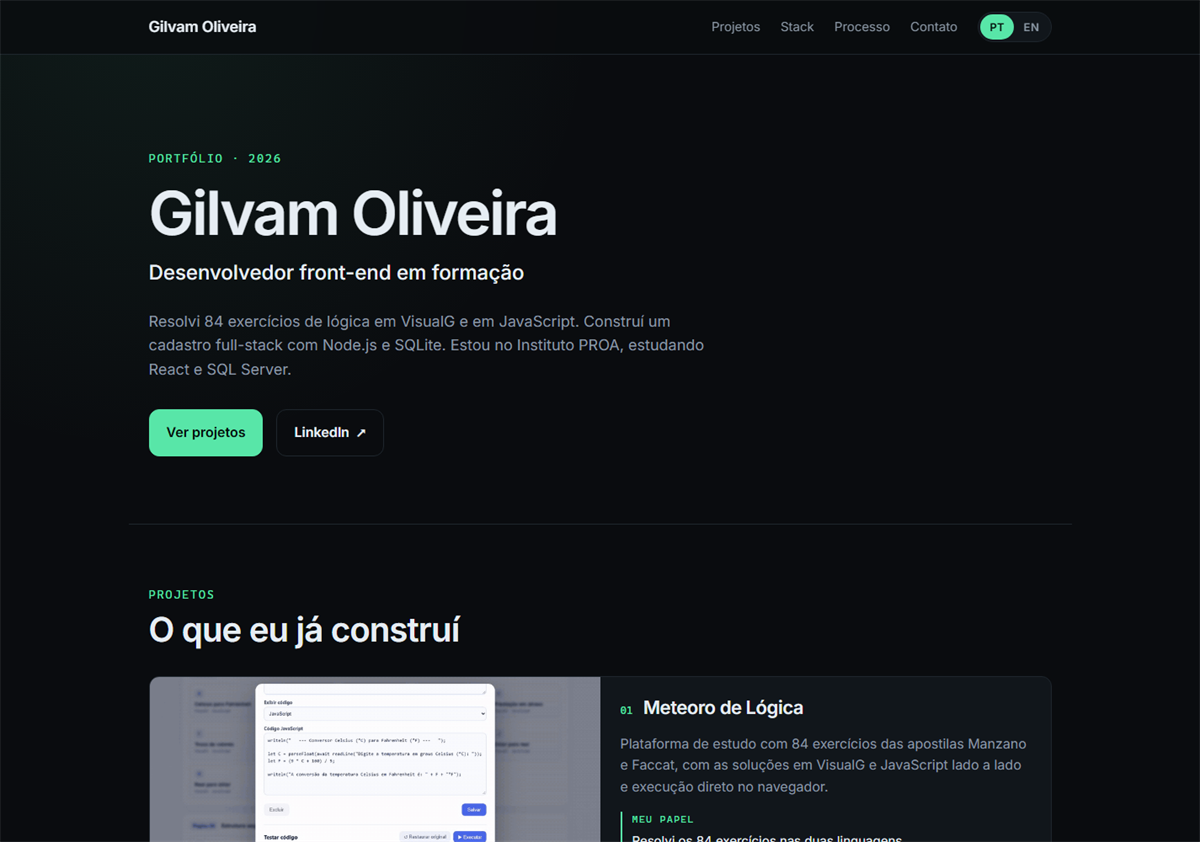
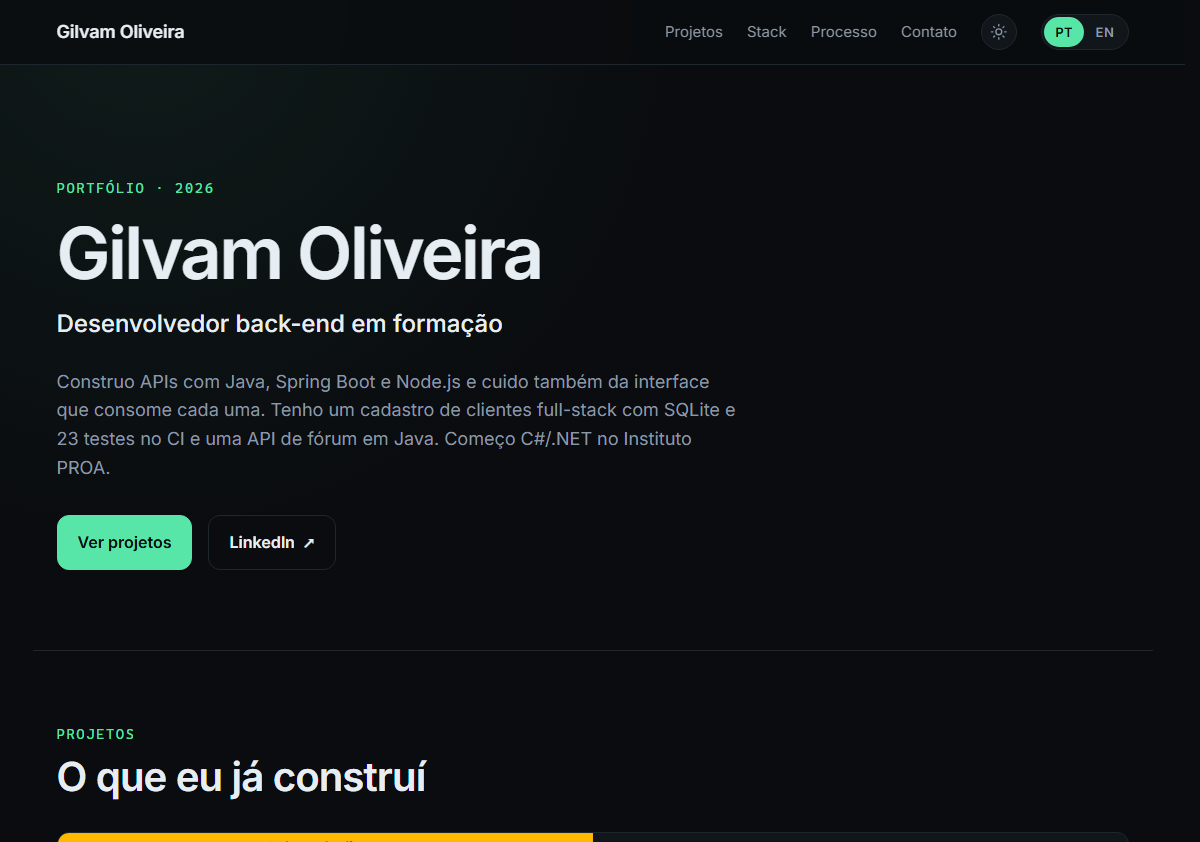
feat: reposiciona o portfolio para back-end e destaca projetos de API

diff --git a/src/i18n/pt.js b/src/i18n/pt.js
@@ -1,9 +1,9 @@
 export const pt = {
   meta: {
     lang: 'pt-BR',
-    title: 'Gilvam Oliveira — Desenvolvedor Front-end',
+    title: 'Gilvam Oliveira — Desenvolvedor Back-End em formação',
     description:
-      'Portfólio de Gilvam Oliveira, desenvolvedor front-end em formação. 84 exercícios de lógica em VisualG e JavaScript, cadastro full-stack com Node.js e SQLite e 70 exercícios de HTML e CSS.',
+      'Portfólio de Gilvam Oliveira, desenvolvedor back-end em formação. Cadastro de clientes com API REST em Node.js e SQLite, API de fórum em Java e Spring Boot, catálogo de livros com JPA e PostgreSQL e 84 exercícios de lógica.',
   },
   a11y: {
     skip: 'Pular para o conteúdo',
@@ -21,8 +21,8 @@ export const pt = {
   hero: {
     label: 'Portfólio · 2026',
     name: 'Gilvam Oliveira',
-    role: 'Desenvolvedor front-end em formação',
-    lead: 'Resolvi 84 exercícios de lógica em VisualG e em JavaScript. Construí um cadastro full-stack com Node.js e SQLite. Estou no Instituto PROA, estudando React e SQL Server.',
+    role: 'Desenvolvedor back-end em formação',
+    lead: 'Construo APIs com Java, Spring Boot e Node.js e cuido também da interface que consome cada uma. Tenho um cadastro de clientes full-stack com SQLite e 23 testes no CI e uma API de fórum em Java. Começo C#/.NET no Instituto PROA.',
     ctaProjects: 'Ver projetos',
     ctaLinkedin: 'LinkedIn',
   },
@@ -36,16 +36,16 @@ export const pt = {
       meteoro: {
         name: 'Meteoro de Lógica',
         summary:
-          'Plataforma de estudo com 84 exercícios das apostilas Manzano e Faccat, com as soluções em VisualG e JavaScript lado a lado e execução direto no navegador.',
+          'Plataforma de estudo com 84 exercícios das apostilas Manzano e Faccat, soluções em VisualG e JavaScript lado a lado e um interpretador de VisualG escrito em JavaScript que executa os programas no navegador.',
         role: 'Resolvi os 84 exercícios nas duas linguagens.',
         alt: 'Catálogo do Meteoro de Lógica com exercícios da apostila Manzano organizados por página e linguagem',
       },
       crud: {
-        name: 'CRUD de Clientes',
+        name: 'Cadastro de Clientes — API e interface',
         summary:
-          'Cadastro de clientes com validação de campos, busca, filtros, paginação e exportação, em versão estática e com API REST em Node.js e SQLite.',
-        role: 'Construí a base seguindo o projeto do curso; sigo evoluindo e estudando o back-end.',
-        alt: 'Tela do CRUD de Clientes em modo API, com indicadores, filtros e a tabela de clientes cadastrados',
+          'API REST em Node.js com SQLite: paginação, busca, filtros e ordenação no servidor, autenticação opcional por token, rate limiting e CORS restrito. A interface funciona com a API e também sozinha, com fallback para localStorage.',
+        role: 'Construí a base a partir do projeto do curso e evoluí a API e os 23 testes automatizados.',
+        alt: 'Tela do Cadastro de Clientes em modo API, com indicadores, filtros e a tabela de clientes cadastrados',
       },
       'html-css': {
         name: 'Exercícios de HTML e CSS',
@@ -55,18 +55,36 @@ export const pt = {
         alt: 'Página inicial da trilha de exercícios de HTML e CSS com os níveis e as atividades',
       },
     },
+    othersLabel: 'Também publiquei',
+    others: [
+      {
+        name: 'ForumHub',
+        description: 'API de fórum em Java e Spring Boot, com JPA, MySQL, Flyway e emissão de JWT.',
+        href: 'https://github.com/GilvamOliveira/forumhub',
+      },
+      {
+        name: 'LiterAlura',
+        description: 'Catálogo de livros com Java, Spring Boot, JPA e PostgreSQL, consumindo a API Gutendex.',
+        href: 'https://github.com/GilvamOliveira/LiterAlura',
+      },
+      {
+        name: 'Portfólio de design',
+        description: 'Oito protótipos de interface no Figma, de login a landing pages.',
+        href: 'https://github.com/GilvamOliveira/design-portfolio',
+      },
+    ],
   },
   stack: {
     label: 'Stack',
     title: 'O que eu uso hoje',
     groups: [
-      { title: 'Linguagens', items: ['HTML5', 'CSS3', 'JavaScript (ES6+)'] },
-      { title: 'Framework', items: ['React'] },
-      { title: 'Dados', items: ['SQL', 'SQL Server', 'SQLite'] },
-      { title: 'Ferramentas', items: ['Git', 'GitHub', 'Figma', 'Vite'] },
+      { title: 'Back-end', items: ['Java 17', 'Spring Boot', 'JPA', 'Node.js', 'APIs REST'] },
+      { title: 'Dados', items: ['SQL', 'MySQL', 'PostgreSQL', 'SQL Server', 'SQLite'] },
+      { title: 'Front-end', items: ['HTML5', 'CSS3', 'JavaScript', 'React', 'Vite'] },
+      { title: 'Qualidade', items: ['JUnit', 'node:test', 'GitHub Actions', 'Docker', 'Git'] },
     ],
-    learningLabel: 'Estudando agora',
-    learning: ['TypeScript', 'C#'],
+    learningLabel: 'Começando agora',
+    learning: ['C#/.NET'],
   },
   process: {
     label: 'Processo',
@@ -75,12 +93,12 @@ export const pt = {
       {
         number: '01',
         title: 'Desenho',
-        text: 'Começo no Figma: wireframe, paleta e tipografia antes da primeira linha de código.',
+        text: 'Antes de codificar, desenho o fluxo e a tela no Figma: wireframe, paleta e tipografia.',
       },
       {
         number: '02',
         title: 'Codifico',
-        text: 'HTML semântico, CSS responsivo e JavaScript puro. Framework só quando resolve.',
+        text: 'Começo pelo modelo de dados e pelo contrato da API. A interface vem depois, em JavaScript ou React.',
       },
       {
         number: '03',
@@ -92,7 +110,7 @@ export const pt = {
   contact: {
     label: 'Contato',
     title: 'Vamos conversar',
-    lead: 'Estou buscando estágio ou posição júnior em front-end.',
+    lead: 'Estou buscando estágio ou posição júnior em back-end.',
     location: 'São Paulo — remoto ou híbrido',
     links: [
       {

diff --git a/src/i18n/en.js b/src/i18n/en.js
@@ -1,9 +1,9 @@
 export const en = {
   meta: {
     lang: 'en-US',
-    title: 'Gilvam Oliveira — Front-end Developer',
+    title: 'Gilvam Oliveira — Back-End Developer in training',
     description:
-      'Portfolio of Gilvam Oliveira, front-end developer in training. 84 programming logic exercises in VisualG and JavaScript, a full-stack client registry with Node.js and SQLite, and 70 HTML and CSS exercises.',
+      'Portfolio of Gilvam Oliveira, back-end developer in training. Client registry with a REST API in Node.js and SQLite, a forum API in Java and Spring Boot, a book catalogue with JPA and PostgreSQL, and 84 programming-logic exercises.',
   },
   a11y: {
     skip: 'Skip to content',
@@ -21,8 +21,8 @@ export const en = {
   hero: {
     label: 'Portfolio · 2026',
     name: 'Gilvam Oliveira',
-    role: 'Front-end developer in training',
-    lead: 'I solved 84 programming logic exercises in VisualG and JavaScript. I built a full-stack client registry with Node.js and SQLite. I study at Instituto PROA, currently learning React and SQL Server.',
+    role: 'Back-end developer in training',
+    lead: 'I build APIs with Java, Spring Boot and Node.js, and I also take care of the interface that consumes them. I have a full-stack client registry with SQLite and 23 tests in CI, and a forum API in Java. I am starting C#/.NET at Instituto PROA.',
     ctaProjects: 'View projects',
     ctaLinkedin: 'LinkedIn',
   },
@@ -36,15 +36,15 @@ export const en = {
       meteoro: {
         name: 'Meteoro de Lógica',
         summary:
-          'Study platform with 84 exercises from the Manzano and Faccat workbooks, with VisualG and JavaScript solutions side by side and in-browser execution.',
+          'Study platform with 84 exercises from the Manzano and Faccat workbooks, VisualG and JavaScript solutions side by side, and a VisualG interpreter written in JavaScript that runs the programs in the browser.',
         role: 'I solved all 84 exercises in both languages.',
         alt: 'Meteoro de Lógica catalog with Manzano workbook exercises organized by page and language',
       },
       crud: {
-        name: 'Client Registry',
+        name: 'Client Registry — API and interface',
         summary:
-          'Client registry with field validation, search, filters, pagination and export, available as a static version and with a REST API in Node.js and SQLite.',
-        role: 'I built the base following the course project and keep improving it while studying the back-end.',
+          'REST API in Node.js with SQLite: server-side pagination, search, filters and sorting, optional token authentication, rate limiting and restricted CORS. The interface works with the API and also on its own, falling back to localStorage.',
+        role: 'I built the base from the course project and evolved the API and its 23 automated tests.',
         alt: 'Client registry screen in API mode with summary metrics, filters and the client table',
       },
       'html-css': {
@@ -55,18 +55,36 @@ export const en = {
         alt: 'Landing page of the HTML and CSS exercise track with levels and activities',
       },
     },
+    othersLabel: 'Also published',
+    others: [
+      {
+        name: 'ForumHub',
+        description: 'Forum API in Java and Spring Boot, with JPA, MySQL, Flyway and JWT issuance.',
+        href: 'https://github.com/GilvamOliveira/forumhub',
+      },
+      {
+        name: 'LiterAlura',
+        description: 'Book catalogue with Java, Spring Boot, JPA and PostgreSQL, querying the Gutendex API.',
+        href: 'https://github.com/GilvamOliveira/LiterAlura',
+      },
+      {
+        name: 'Design portfolio',
+        description: 'Eight interface prototypes in Figma, from login screens to landing pages.',
+        href: 'https://github.com/GilvamOliveira/design-portfolio',
+      },
+    ],
   },
   stack: {
     label: 'Stack',
     title: 'What I use today',
     groups: [
-      { title: 'Languages', items: ['HTML5', 'CSS3', 'JavaScript (ES6+)'] },
-      { title: 'Framework', items: ['React'] },
-      { title: 'Data', items: ['SQL', 'SQL Server', 'SQLite'] },
-      { title: 'Tools', items: ['Git', 'GitHub', 'Figma', 'Vite'] },
+      { title: 'Back end', items: ['Java 17', 'Spring Boot', 'JPA', 'Node.js', 'REST APIs'] },
+      { title: 'Data', items: ['SQL', 'MySQL', 'PostgreSQL', 'SQL Server', 'SQLite'] },
+      { title: 'Front end', items: ['HTML5', 'CSS3', 'JavaScript', 'React', 'Vite'] },
+      { title: 'Quality', items: ['JUnit', 'node:test', 'GitHub Actions', 'Docker', 'Git'] },
     ],
-    learningLabel: 'Currently learning',
-    learning: ['TypeScript', 'C#'],
+    learningLabel: 'Starting now',
+    learning: ['C#/.NET'],
   },
   process: {
     label: 'Process',
@@ -75,12 +93,12 @@ export const en = {
       {
         number: '01',
         title: 'Design',
-        text: 'I start in Figma: wireframe, palette and typography before the first line of code.',
+        text: 'Before coding, I sketch the flow and the screen in Figma: wireframe, palette and typography.',
       },
       {
         number: '02',
         title: 'Build',
-        text: 'Semantic HTML, responsive CSS and plain JavaScript. A framework only when it solves something.',
+        text: 'I start with the data model and the API contract. The interface comes next, in JavaScript or React.',
       },
       {
         number: '03',
@@ -92,7 +110,7 @@ export const en = {
   contact: {
     label: 'Contact',
     title: "Let's talk",
-    lead: "I'm looking for an internship or a junior front-end position.",
+    lead: "I'm looking for an internship or a junior back-end position.",
     location: 'São Paulo — remote or hybrid',
     links: [
       {

diff --git a/index.html b/index.html
@@ -3,10 +3,10 @@
   <head>
     <meta charset="UTF-8" />
     <meta name="viewport" content="width=device-width, initial-scale=1.0" />
-    <title>Gilvam Oliveira — Desenvolvedor Front-end</title>
+    <title>Gilvam Oliveira — Desenvolvedor Back-End em formação</title>
     <meta
       name="description"
-      content="Portfólio de Gilvam Oliveira, desenvolvedor front-end em formação. 84 exercícios de lógica em VisualG e JavaScript, cadastro full-stack com Node.js e SQLite e 70 exercícios de HTML e CSS."
+      content="Portfólio de Gilvam Oliveira, desenvolvedor back-end em formação. Cadastro de clientes com API REST em Node.js e SQLite, API de fórum em Java e Spring Boot, catálogo de livros com JPA e PostgreSQL e 84 exercícios de lógica."
     />
     <meta name="theme-color" content="#0A0C0F" />
     <script>
@@ -28,10 +28,10 @@
     <link rel="canonical" href="https://gilvam.is-a.dev/" />
     <meta property="og:type" content="website" />
     <meta property="og:url" content="https://gilvam.is-a.dev/" />
-    <meta property="og:title" content="Gilvam Oliveira — Desenvolvedor Front-end" />
+    <meta property="og:title" content="Gilvam Oliveira — Desenvolvedor Back-End em formação" />
     <meta
       property="og:description"
-      content="84 exercícios de lógica em VisualG e JavaScript, cadastro full-stack com Node.js e SQLite e 70 exercícios de HTML e CSS."
+      content="Cadastro de clientes com API REST em Node.js e SQLite, API de fórum em Java e Spring Boot, catálogo de livros com JPA e PostgreSQL e 84 exercícios de lógica."
     />
     <meta property="og:image" content="https://gilvam.is-a.dev/og.png" />
     <meta property="og:locale" content="pt_BR" />

diff --git a/src/data/projects.js b/src/data/projects.js
@@ -1,22 +1,22 @@
 export const projects = [
   {
-    id: 'meteoro',
+    id: 'crud',
     number: '01',
-    stack: ['JavaScript', 'VisualG', 'HTML', 'CSS'],
-    demo: 'https://gilvamoliveira.github.io/meteoro-de-logica/',
-    repo: 'https://github.com/GilvamOliveira/meteoro-de-logica',
-    image: '/projects/meteoro.png',
+    stack: ['Node.js', 'SQLite', 'REST', 'JavaScript'],
+    demo: 'https://gilvamoliveira.github.io/client-registry/',
+    repo: 'https://github.com/GilvamOliveira/client-registry',
+    image: '/projects/crud.png',
     width: 1200,
     height: 900,
     featured: true,
   },
   {
-    id: 'crud',
+    id: 'meteoro',
     number: '02',
-    stack: ['JavaScript', 'Node.js', 'SQLite', 'REST'],
-    demo: 'https://gilvamoliveira.github.io/client-registry/',
-    repo: 'https://github.com/GilvamOliveira/client-registry',
-    image: '/projects/crud.png',
+    stack: ['JavaScript', 'VisualG', 'HTML', 'CSS'],
+    demo: 'https://gilvamoliveira.github.io/meteoro-de-logica/',
+    repo: 'https://github.com/GilvamOliveira/meteoro-de-logica',
+    image: '/projects/meteoro.png',
     width: 1200,
     height: 900,
     featured: false,

diff --git a/src/styles.css b/src/styles.css
@@ -444,6 +444,48 @@ button {
   text-underline-offset: 4px;
 }
 
+.other-projects {
+  margin-top: var(--sp-4);
+  padding-top: var(--sp-3);
+  border-top: 1px solid var(--border);
+}
+
+.other-projects h3 {
+  margin-bottom: var(--sp-2);
+  font-family: var(--mono);
+  font-size: 0.8125rem;
+  letter-spacing: 0.1em;
+  text-transform: uppercase;
+  color: var(--accent);
+}
+
+.other-projects ul {
+  display: grid;
+  gap: var(--sp-2);
+}
+
+.other-projects li {
+  display: flex;
+  flex-wrap: wrap;
+  align-items: baseline;
+  gap: 0.25rem 1rem;
+  font-size: 0.9375rem;
+}
+
+.other-projects a {
+  font-weight: 500;
+  color: var(--accent);
+}
+
+.other-projects a:hover {
+  text-decoration: underline;
+  text-underline-offset: 4px;
+}
+
+.other-projects li span {
+  color: var(--muted);
+}
+
 .stack-grid {
   display: grid;
   grid-template-columns: repeat(2, minmax(0, 1fr));
@@ -619,6 +661,11 @@ button {
 
   .stack-grid {
     grid-template-columns: repeat(4, minmax(0, 1fr));
+  }
+
+  .other-projects ul {
+    grid-template-columns: repeat(2, minmax(0, 1fr));
+    gap: var(--sp-2) var(--sp-3);
   }
 }
 

diff --git a/src/components/Projects.jsx b/src/components/Projects.jsx
@@ -13,6 +13,20 @@ export default function Projects() {
           <ProjectCard key={project.id} project={project} />
         ))}
       </div>
+
+      <div className="other-projects">
+        <h3>{t.projects.othersLabel}</h3>
+        <ul>
+          {t.projects.others.map((item) => (
+            <li key={item.name}>
+              <a href={item.href} target="_blank" rel="noreferrer">
+                {item.name} <span aria-hidden="true">↗</span>
+              </a>
+              <span>{item.description}</span>
+            </li>
+          ))}
+        </ul>
+      </div>
     </Section>
   );
 }

diff --git a/README.md b/README.md
@@ -1,6 +1,6 @@
 # Portfólio - Gilvam Oliveira
 
-Portfólio pessoal, desenvolvedor front-end em formação. Uma página única, em português e inglês, com três projetos, stack, processo de trabalho e contato.
+Portfólio pessoal de Gilvam Oliveira, desenvolvedor back-end em formação. Uma página única, em português e inglês, com três projetos em destaque, uma lista de outros repositórios, stack, processo de trabalho e contato.
 
 [![Prévia do portfólio](docs/preview.png)](https://gilvam.is-a.dev)
 
@@ -18,6 +18,7 @@ O conteúdo é separado da apresentação: os dados estruturais dos projetos fic
 - **Sem router:** navegação por âncoras entre as seções.
 - **CSS próprio:** design tokens para cores, espaçamento e tipografia, sem framework de UI.
 - **Conteúdo centralizado:** textos em arquivos de i18n e dados dos projetos em um único módulo.
+- **Outros repositórios:** a lista "Também publiquei" fica só nos arquivos de i18n, com links diretos e sem capturas.
 
 ## Stack
 
